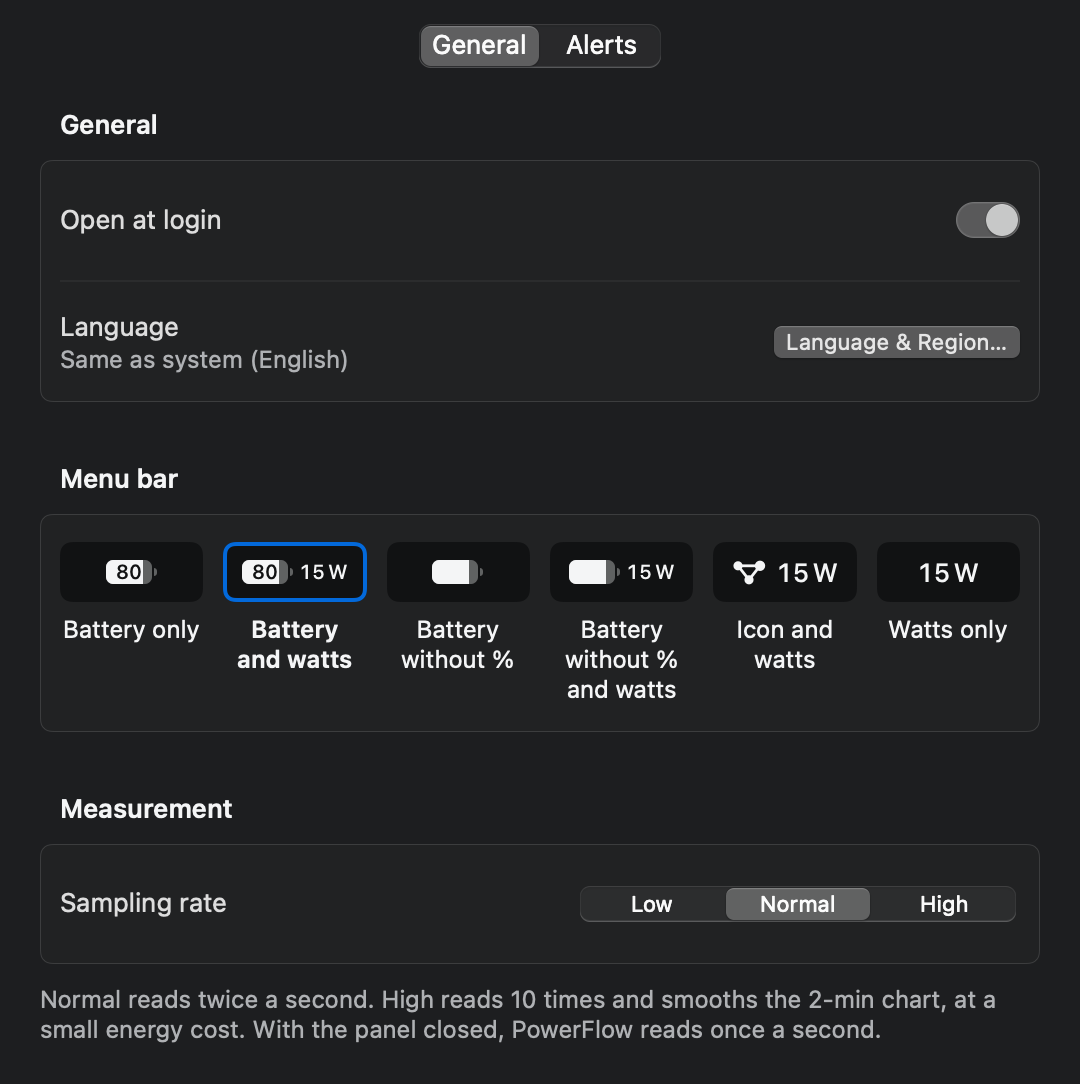
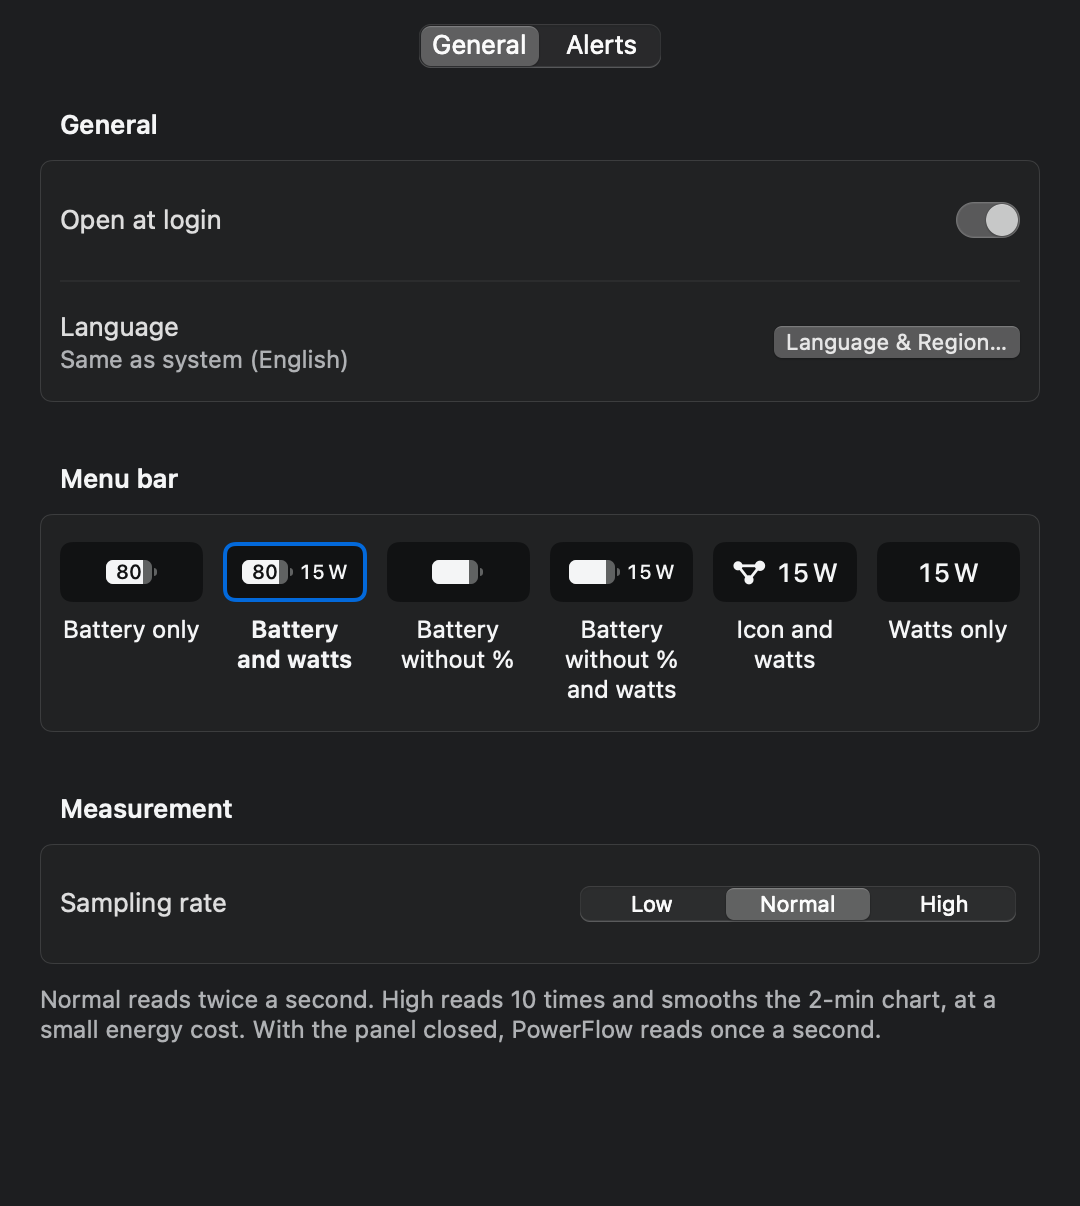
Phase 22: links to the repository and version 2.1.7
- Settings › About gets a "Source code" row with a "GitHub ↗" link to
  the repository. The Settings window keeps the height of its tallest
  tab, so it grows from 542 to 603 pt.
- The "Sensors unavailable" panel gets "Report on GitHub" next to
  "Copy Diagnostics"; it opens a new issue.
- The repository URL lives in one place, PowerFlowCore/Repository.swift,
  with a test.
- Version 2.1.7: the menu bar item changed since 2.1.6.
- README: a Download link to the latest release and to the Releases
  page. The Settings images are rendered again at the new height.

diff --git a/Sources/PowerFlow/PanelView.swift b/Sources/PowerFlow/PanelView.swift
@@ -532,10 +532,14 @@ private struct UnavailableView: View {
                     .foregroundStyle(PFColor.fg2)
                     .fixedSize(horizontal: false, vertical: true)
 
-                // «Reportar no GitHub» aparece quando houver URL do repositório.
-                Button(L10n.string("u_copy")) {
-                    NSPasteboard.general.clearContents()
-                    NSPasteboard.general.setString(Diagnostics.report(), forType: .string)
+                HStack(spacing: PFSpace.s) {
+                    Button(L10n.string("u_copy")) {
+                        NSPasteboard.general.clearContents()
+                        NSPasteboard.general.setString(Diagnostics.report(), forType: .string)
+                    }
+                    Button(L10n.string("u_report")) {
+                        NSWorkspace.shared.open(Repository.newIssueURL)
+                    }
                 }
                 .buttonStyle(.bordered)
                 .controlSize(.small)

diff --git a/Sources/PowerFlow/SettingsView.swift b/Sources/PowerFlow/SettingsView.swift
@@ -410,12 +410,22 @@ private struct AboutSection: View {
     }
 
     var body: some View {
-        // «Código-fonte» fica escondido até haver URL do repositório.
         Section {
             LabeledContent {
                 Text(version).font(PFFont.body).monospacedDigit()
             } label: {
                 Text(L10n.string("s_version")).font(PFFont.body)
+            }
+            .frame(minHeight: PFSpace.rowSettings)
+            LabeledContent {
+                Link(destination: Repository.url) {
+                    Text(L10n.string("s_source_link"))
+                        .font(PFFont.body)
+                        .foregroundStyle(PFColor.blueInk)
+                }
+                .accessibilityLabel(L10n.string("s_source"))
+            } label: {
+                Text(L10n.string("s_source")).font(PFFont.body)
             }
             .frame(minHeight: PFSpace.rowSettings)
         } header: {

diff --git a/Tests/PowerFlowCoreTests/RepositoryTests.swift b/Tests/PowerFlowCoreTests/RepositoryTests.swift
@@ -1,0 +1,14 @@
+import XCTest
+@testable import PowerFlowCore
+
+/// O URL do repositório que o «Código-fonte» e o «Reportar no GitHub» abrem.
+final class RepositoryTests: XCTestCase {
+    func testCodigoFonteAbreORepositorio() {
+        XCTAssertEqual(Repository.url.absoluteString, "https://github.com/e271aa/power-flow")
+    }
+
+    func testReportarAbreUmProblemaNovo() {
+        XCTAssertEqual(Repository.newIssueURL.absoluteString,
+                       "https://github.com/e271aa/power-flow/issues/new")
+    }
+}

diff --git a/Sources/PowerFlowCore/Repository.swift b/Sources/PowerFlowCore/Repository.swift
@@ -1,0 +1,10 @@
+import Foundation
+
+/// O repositório público da app. É o único sítio com o URL: o
+/// «Código-fonte» das Definições e o «Reportar no GitHub» do painel lêem-no daqui.
+public enum Repository {
+    public static let url = URL(string: "https://github.com/e271aa/power-flow")!
+
+    /// A página de um problema novo, para o «Reportar no GitHub».
+    public static let newIssueURL = url.appendingPathComponent("issues/new")
+}

diff --git a/README.md b/README.md
@@ -196,7 +196,8 @@ All logic that can be tested lives in `PowerFlowCore`. The views in
 <img alt="The disk image window: drag PowerFlow onto Applications. If macOS won't open it the first time: System Settings › Privacy & Security › Open Anyway." src="assets/dmg-window.png" width="560">
 </div>
 
-1. Download `power-flow.dmg`.
+1. Download [`power-flow.dmg`](https://github.com/e271aa/power-flow/releases/latest/download/power-flow.dmg).
+   Every version is on the [Releases](https://github.com/e271aa/power-flow/releases) page.
 2. Open it and drag **PowerFlow** onto **Applications**.
 3. Open PowerFlow from Applications. It is signed ad hoc and not notarized, so
    the first time macOS will not open it. Go to **System Settings › Privacy &
